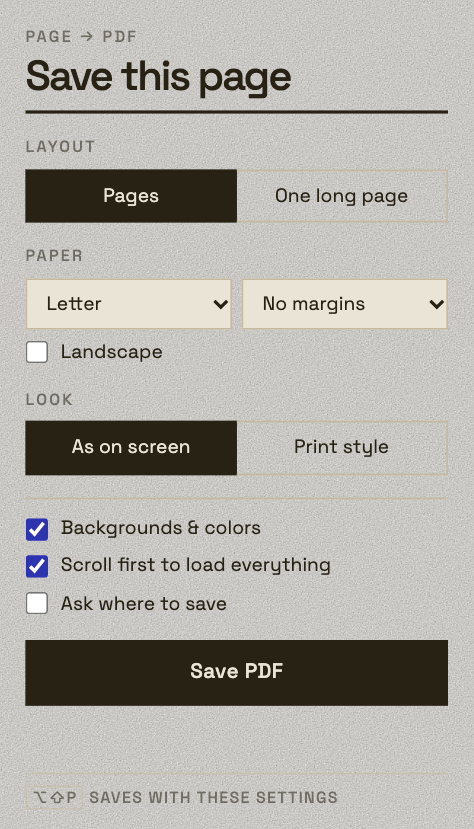
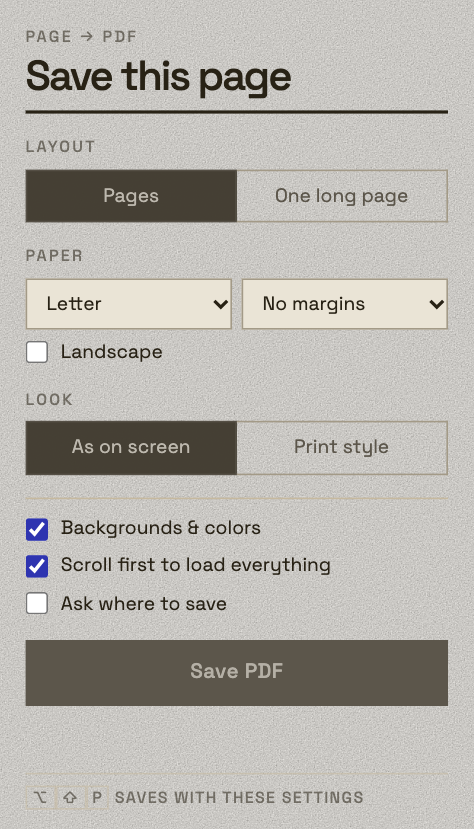
Test browsers use a mock keychain so macOS never prompts; fix cream rgb expectation

diff --git a/e2e/extension.test.js b/e2e/extension.test.js
@@ -86,7 +86,7 @@ test('popup renders in Space Grotesk with saved defaults and the bound shortcut'
     return evalValue(popup.send, `({ bg: getComputedStyle(document.body).backgroundColor, ink: getComputedStyle(document.body).color })`);
   };
   // Site tokens: cream/ink on light, stone/bone on dark.
-  assert.deepEqual(await look('light'), { bg: 'rgb(235, 227, 212)', ink: 'rgb(40, 34, 21)' });
+  assert.deepEqual(await look('light'), { bg: 'rgb(234, 228, 214)', ink: 'rgb(40, 34, 21)' });
   assert.deepEqual(await look('dark'), { bg: 'rgb(28, 28, 28)', ink: 'rgb(241, 237, 228)' });
   const state = await evalValue(popup.send, `document.fonts.ready.then(() => ({
     font: document.fonts.check("13px 'Space Grotesk'") && [...document.fonts].some(f => f.family === 'Space Grotesk' && f.status === 'loaded'),

diff --git a/test/helpers.js b/test/helpers.js
@@ -13,7 +13,10 @@ export async function launch({ bin = CHROME, args = [], prepareProfile } = {}) {
   prepareProfile?.(dir);
   const proc = spawn(bin, [
     '--headless=new', '--remote-debugging-port=0', `--user-data-dir=${dir}`,
-    '--no-first-run', '--no-default-browser-check', ...args, 'about:blank',
+    '--no-first-run', '--no-default-browser-check',
+    // Keep test browsers out of the macOS login keychain (no "Safe Storage" password prompt).
+    '--use-mock-keychain', '--password-store=basic',
+    ...args, 'about:blank',
   ], { stdio: ['ignore', 'ignore', 'pipe'] });
   const wsUrl = await new Promise((resolve, reject) => {
     let log = '';
